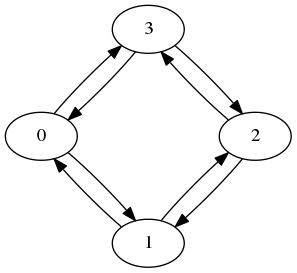
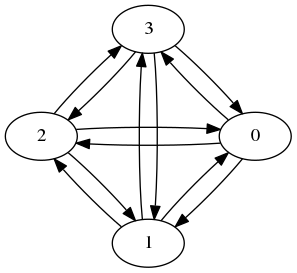
add new graph pictures

Changed region(s): [[0.2424, 0.1758, 0.7576, 0.8205], [0.8485, 0.4689, 0.8788, 0.5275], [0.1212, 0.4689, 0.1515, 0.5275]]

diff --git a/multi-comodity/create_graph.py b/multi-comodity/create_graph.py
@@ -16,7 +16,7 @@ def draw_graph(edgg_list_file, dir = u'/home/chen/MA_python/multi-comodity/Graph
     A.layout(prog='circo')
     A.draw(edgg_list_file + '.png')
 
-draw_graph('3-3')
+draw_graph('4-6')
 
 
 
